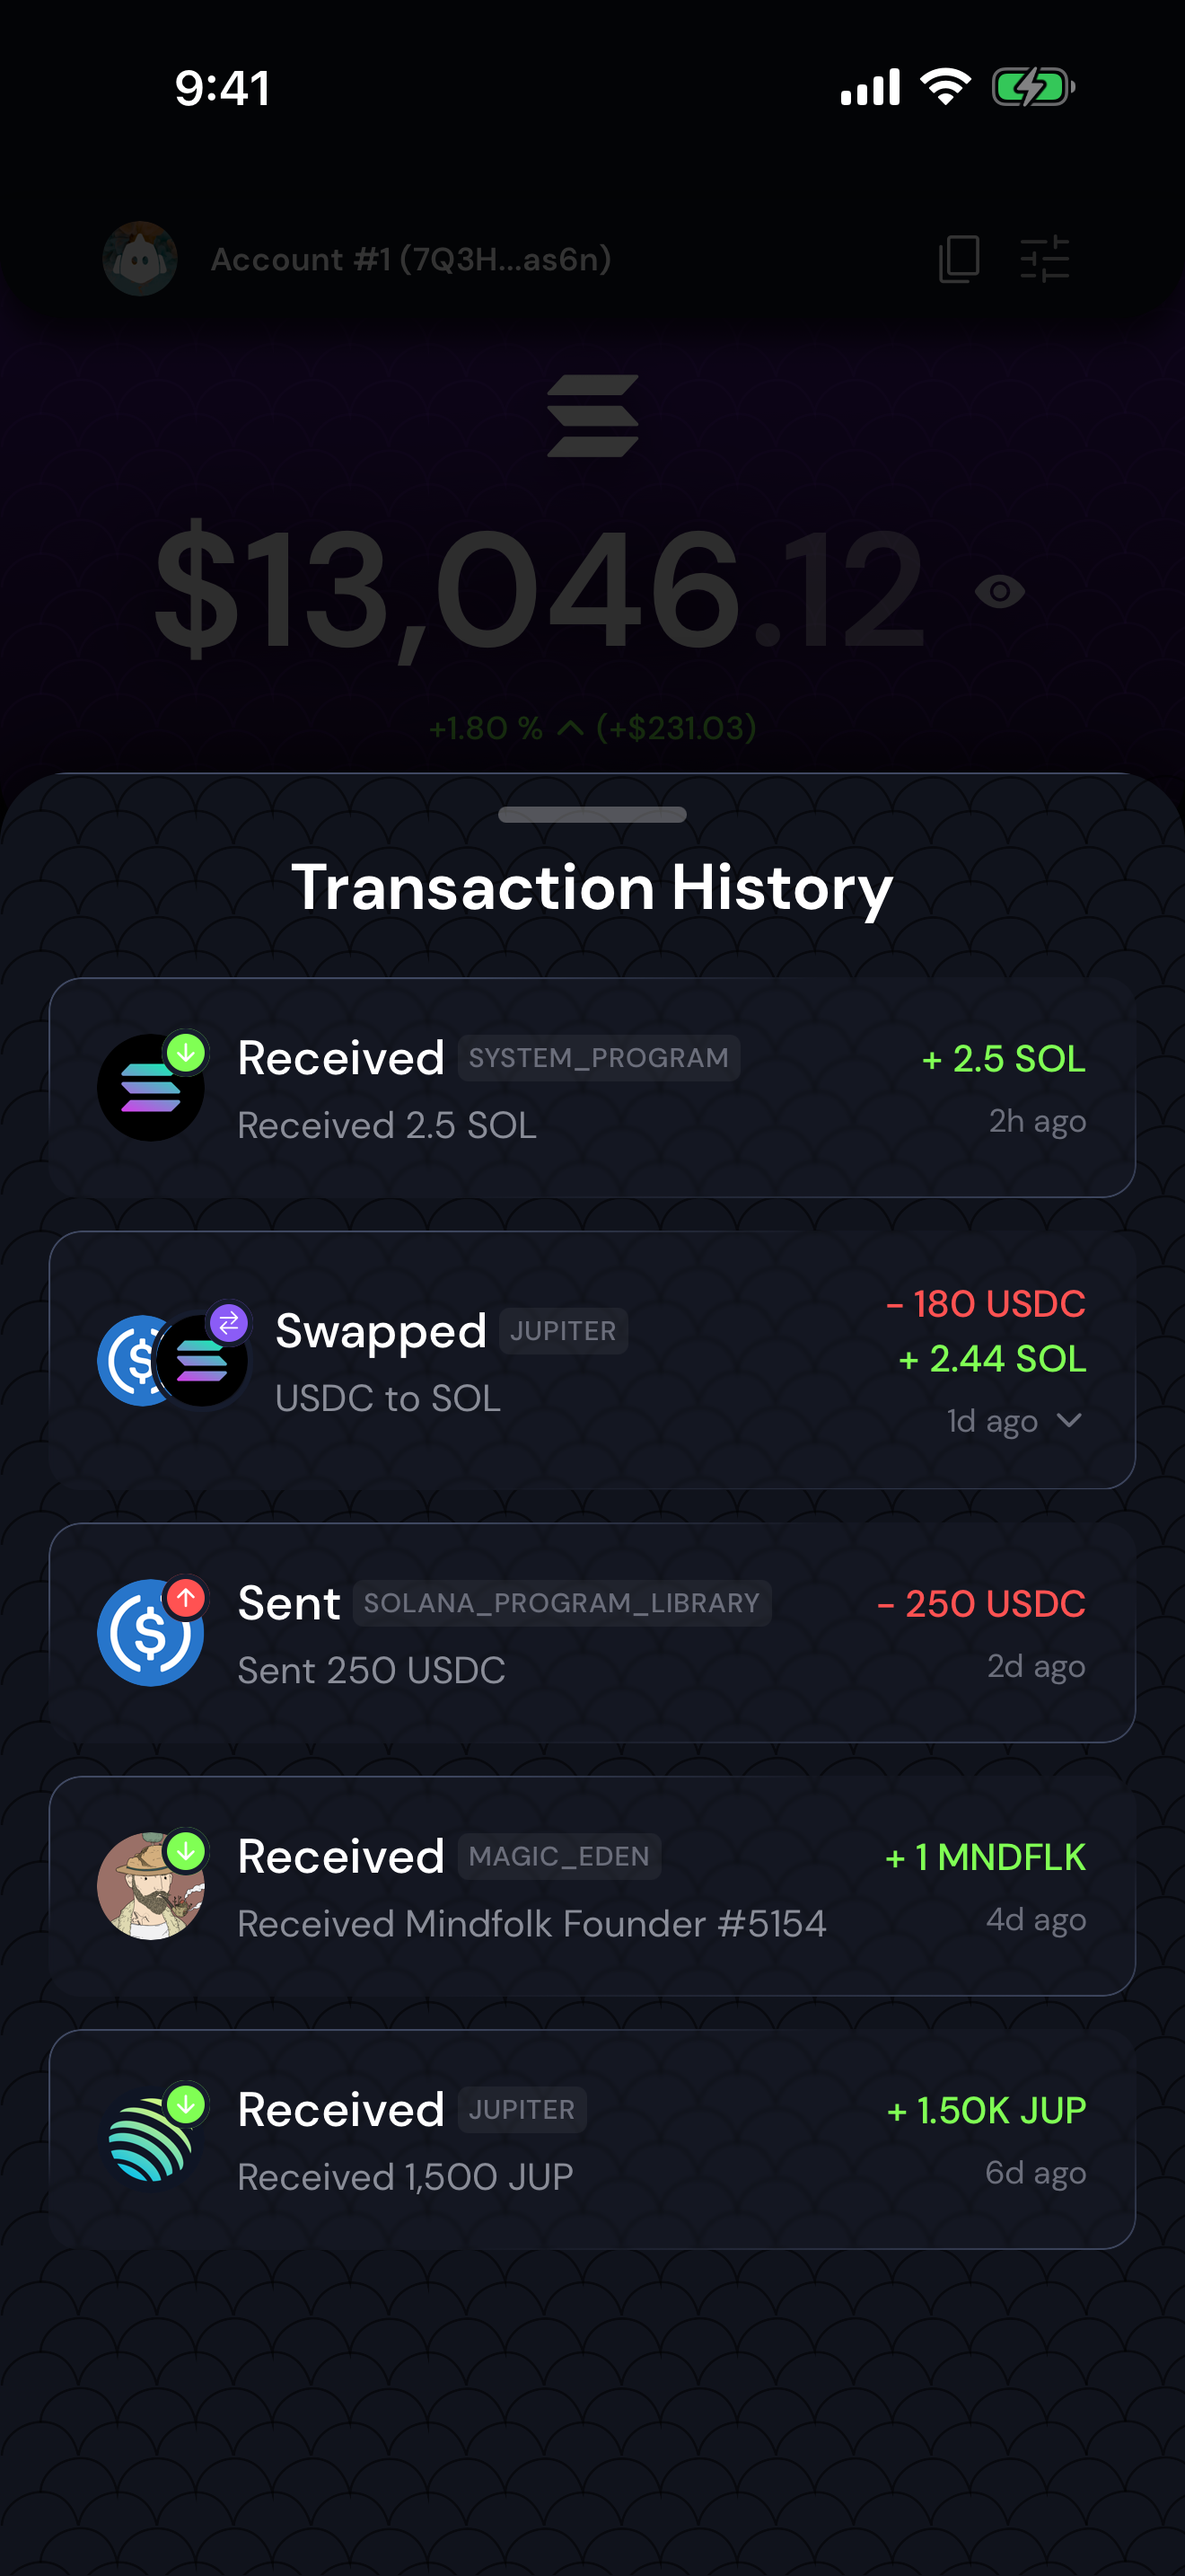
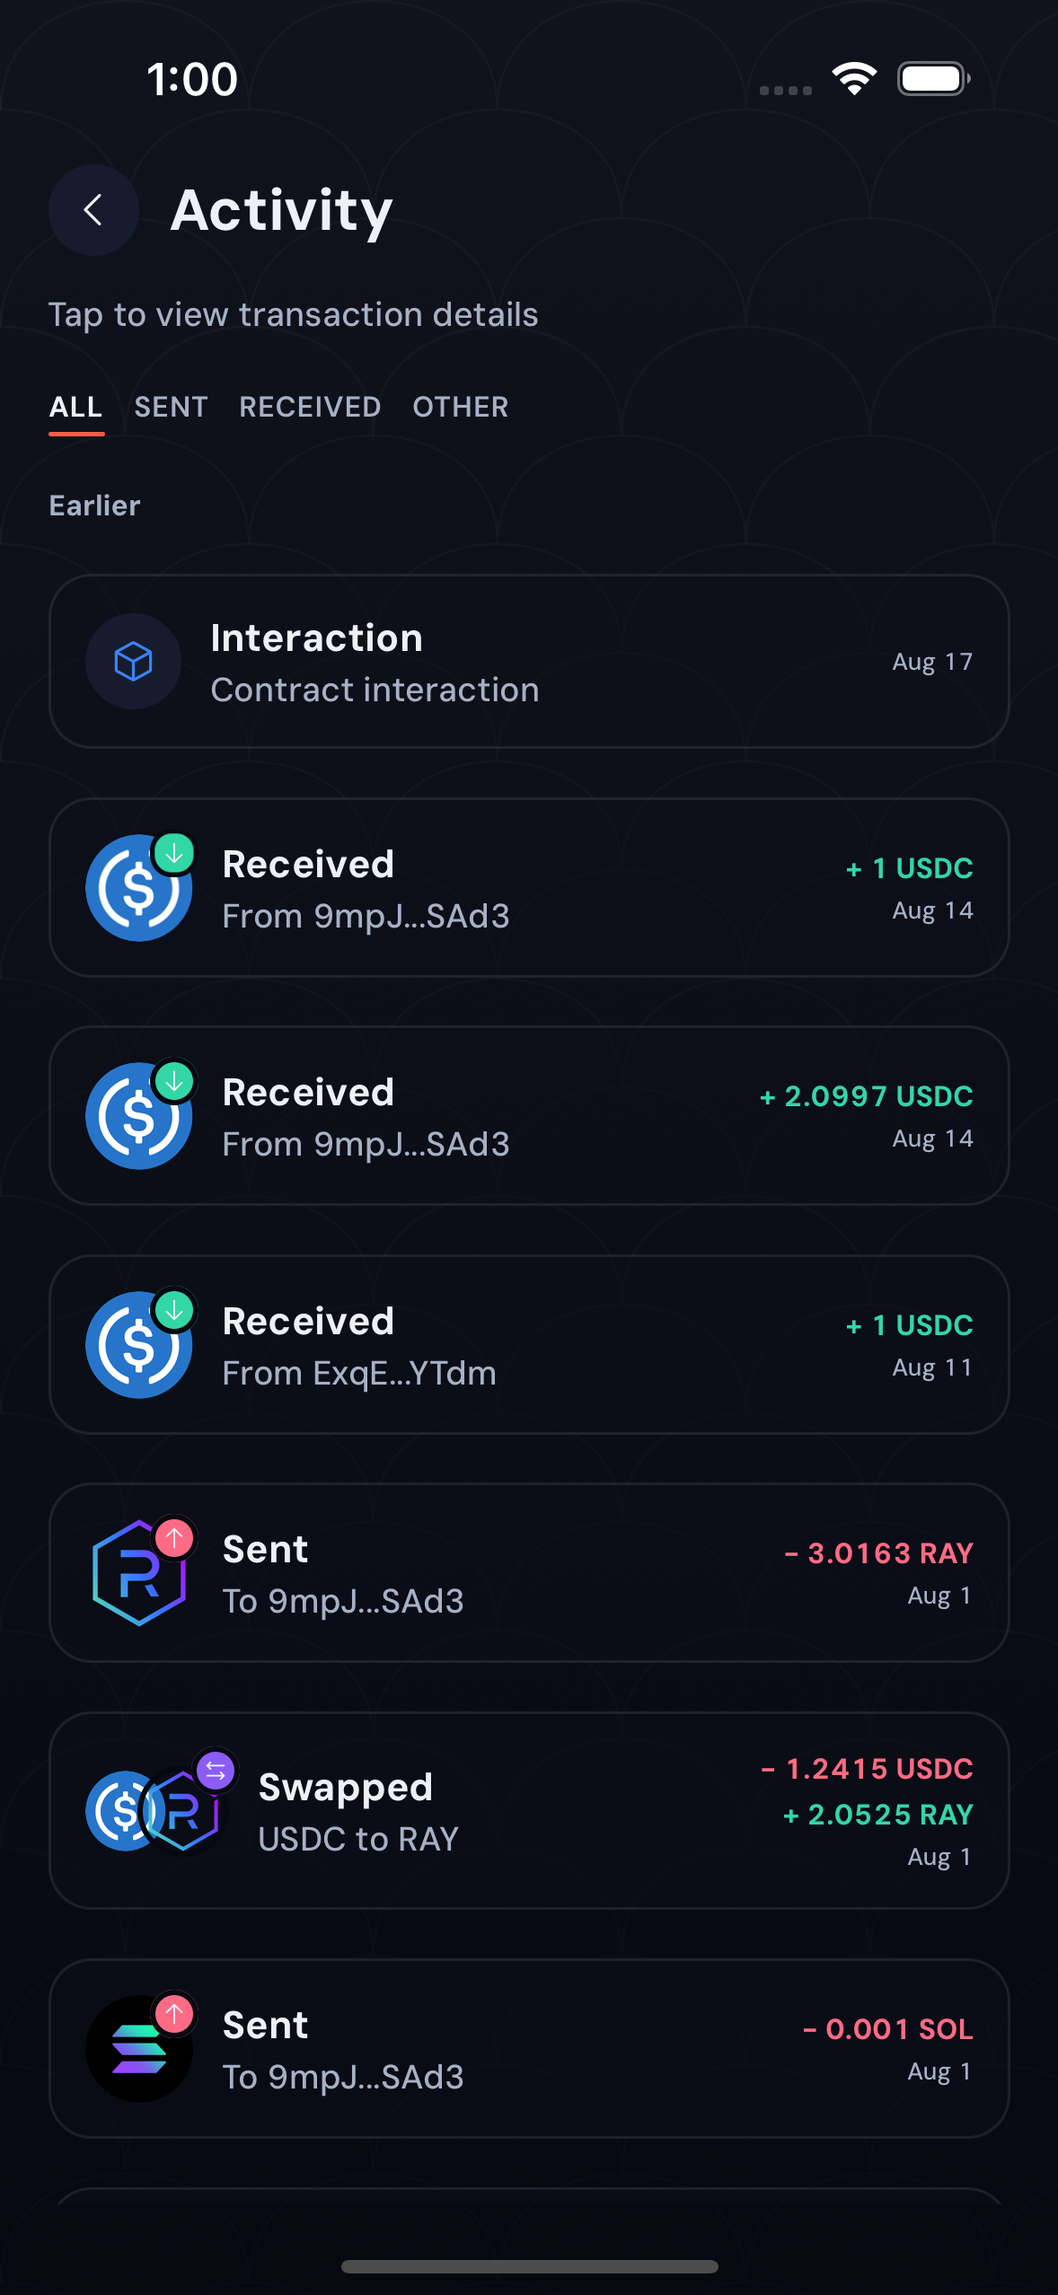
chore(store-assets): the iOS App Store set from the simulator, on the redesign
Six captures from the iPhone 16 dev client on the owner's unlocked Home
(Wallet A, local backend, dark, dev launcher hidden), composed to
1320×2868; the swap and About frames are gone. The Maestro suite gains the
iOS branches it lacked — paste-based recovery with the "Allow Paste"
prompt, the header back button on NFT detail, the dev-menu retry on
Settings — and a capture-home flow that starts from an unlocked Home.

Known: the Marinade row's subline reads "mSC$145.52" — mobile's token row
has the subline bug the DOM lost today; fixed next, then 01 is re-taken.

Claude-Session: https://claude.ai/code/session_01861V9YaKMJ9mnXjMSEuhWA

diff --git a/store-assets/compose.py b/store-assets/compose.py
@@ -38,7 +38,6 @@ DECK = [
     ("06-token-info",   None, "Live prices\nfor every token",                              "navy",  None),
     # About is the most dispensable frame: version and links, not the product
     # in use, which is what Play asks the captures to show. App Store only.
-    ("07-about",        None, "If you can\u2019t verify it,\nyou don\u2019t own it.",     "coral", ("app-store",)),
 ]
 
 CWS_DECK = [

diff --git a/store-assets/README.md b/store-assets/README.md
@@ -7,11 +7,21 @@ asset specs, Apple screenshot specs 2025+, AMO listing guide).
 | Store | What goes here | Required | Status |
 |---|---|---|---|
 | `play/` | `feature-graphic.png` 1024×500 (required), `icon-512.png` 512×512 32-bit with alpha (required), `phone/` 2–8 screenshots 9:16 (1080×1920 ✓), `listing.txt` copy | yes | **complete** — 6 frames on the redesign (2026-09-03, dark mode, Pixel 9 Pro emulator via `flows/store/capture.yaml`); no swap frame |
-| `app-store/iphone-6.9/` | 1290×2796 or 1320×2868 portrait screenshots (the required tier since 2025) | yes, before first submission | **STALE** — the 9 frames are the previous design (incl. two swap frames); re-capture needs the iOS dev build installed on a simulator (`pnpm --filter mobile ios`), then `run.sh --device <udid> -e OUT=… flows/store/capture.yaml` and `compose.py app-store` |
+| `app-store/iphone-6.9/` | 1290×2796 or 1320×2868 portrait screenshots (the required tier since 2025) | yes, before first submission | **complete** — 6 frames 1320×2868 (Home, Send amount, Activity, NFTs, NFT detail, Token detail) from the iPhone 16 simulator (2026-09-03, redesign, no swap, no About): `run.sh --device <udid> -e OUT=… flows/store/capture.yaml` then `compose.py app-store`; the dev-client gear is hidden before capturing (see below) |
 | `chrome-web-store/` | `screenshots/` 1280×800 (min 1, up to 5), `store-icon-128.png` (96×96 art in 128 canvas ✓), `promo-small-440x280.png` (required — listings without it rank below listings that have one) | yes | **complete** — 5 screenshots from the extension side panel (400×800 captures via `apps/extension/.playwright/scripts/store-shots.mjs`), composed by `compose.py chrome-web-store` |
 | `amo/screenshots/` | 1280×800 recommended (1.6:1) | recommended | empty — can reuse the CWS captures, but prefer un-captioned crops: AMO advises against text on the image |
 | `play/tablet-7/` · `play/tablet-10/` | 4–8 screenshots each, 1,080–7,680px, 9:16 or 16:9 | no, but see below | **missing** — never captured |
-| `source/` | raw, unframed captures (Maestro / Playwright output) before any framing | — | `android-staged/` (7, redesign), `ios-staged/` (9, previous design — stale), `extension-staged/` (side panel 400×800) |
+| `source/` | raw, unframed captures (Maestro / Playwright output) before any framing | — | `android-staged/` (7, redesign), `ios-staged/` (6, redesign), `extension-staged/` (side panel 400×800) |
+
+## iOS captures: the dev-client gear (2026-09-03)
+
+The simulator shots come from the Expo dev client, whose floating gear sits
+bottom-right (and over the header on the auth screens). It is not part of the
+app; Apple will reject a screenshot that shows it. Before submission either
+crop/paint it out in `compose.py` or capture from a release build
+(`expo run:ios --configuration Release`), which has no overlay. Same gear made
+the Settings header untappable through Maestro on iOS; `open-settings.yaml`
+closes the dev menu and retries.
 
 ## Staging (2026-09-03)
 
